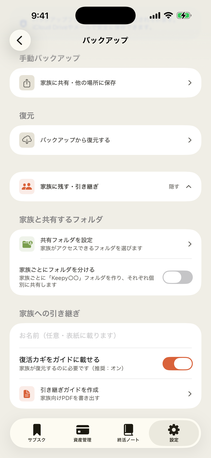
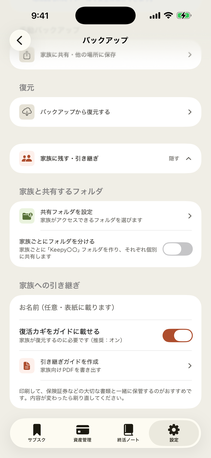
guide: STEP4 の画像を撮り直し（バックアップ「家族への引き継ぎ」節末尾の保管案内の一文が写る・Keepy2 b858f24）＋?v=2

diff --git a/guide.html b/guide.html
@@ -229,7 +229,7 @@
           <h3>引き継ぎガイド／暗号化ファイルを書き出す</h3>
           <p>アプリから、共有フォルダへ<strong>暗号化バックアップ（.enc）</strong>と<strong>引き継ぎガイド</strong>を書き出します。宛先ごとに書き出すと、それぞれのガイドには<strong>そのご本人の家族パスコードだけ</strong>が載ります。「Keepy○○（お名前）」のフォルダが自動で作られ、宛先別に整理されます。</p>
         </div>
-        <div class="phone"><img srcset="img/guide/step4_export-211.png 211w, img/guide/step4_export-422.png 422w, img/guide/step4_export.png 750w" sizes="(max-width: 620px) 186px, 211px" src="img/guide/step4_export.png" width="750" height="1629" loading="lazy" alt="「家族への引き継ぎ」の「引き継ぎガイドを作成」ボタン。家族向けPDFを書き出す"></div>
+        <div class="phone"><img srcset="img/guide/step4_export-211.png?v=2 211w, img/guide/step4_export-422.png?v=2 422w, img/guide/step4_export.png?v=2 750w" sizes="(max-width: 620px) 186px, 211px" src="img/guide/step4_export.png?v=2" width="750" height="1629" loading="lazy" alt="「家族への引き継ぎ」の「引き継ぎガイドを作成」ボタン。家族向けPDFを書き出す"></div>
       </div>
       <div class="step-card tint-indigo">
         <span class="step-watermark" aria-hidden="true">5</span>
